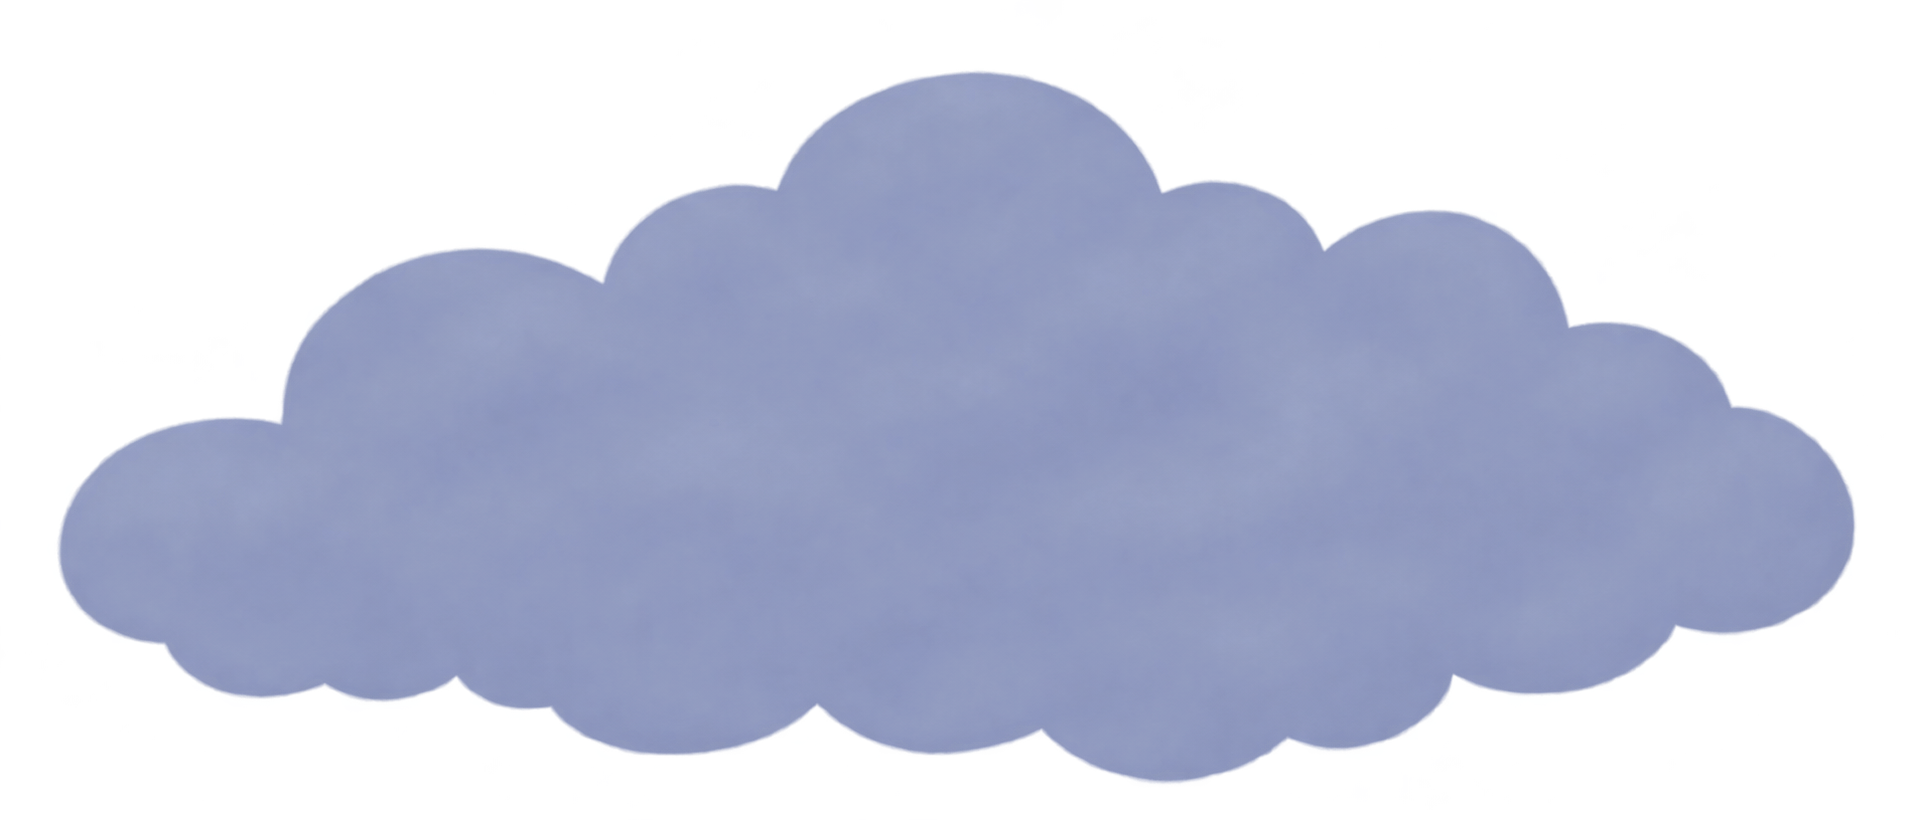
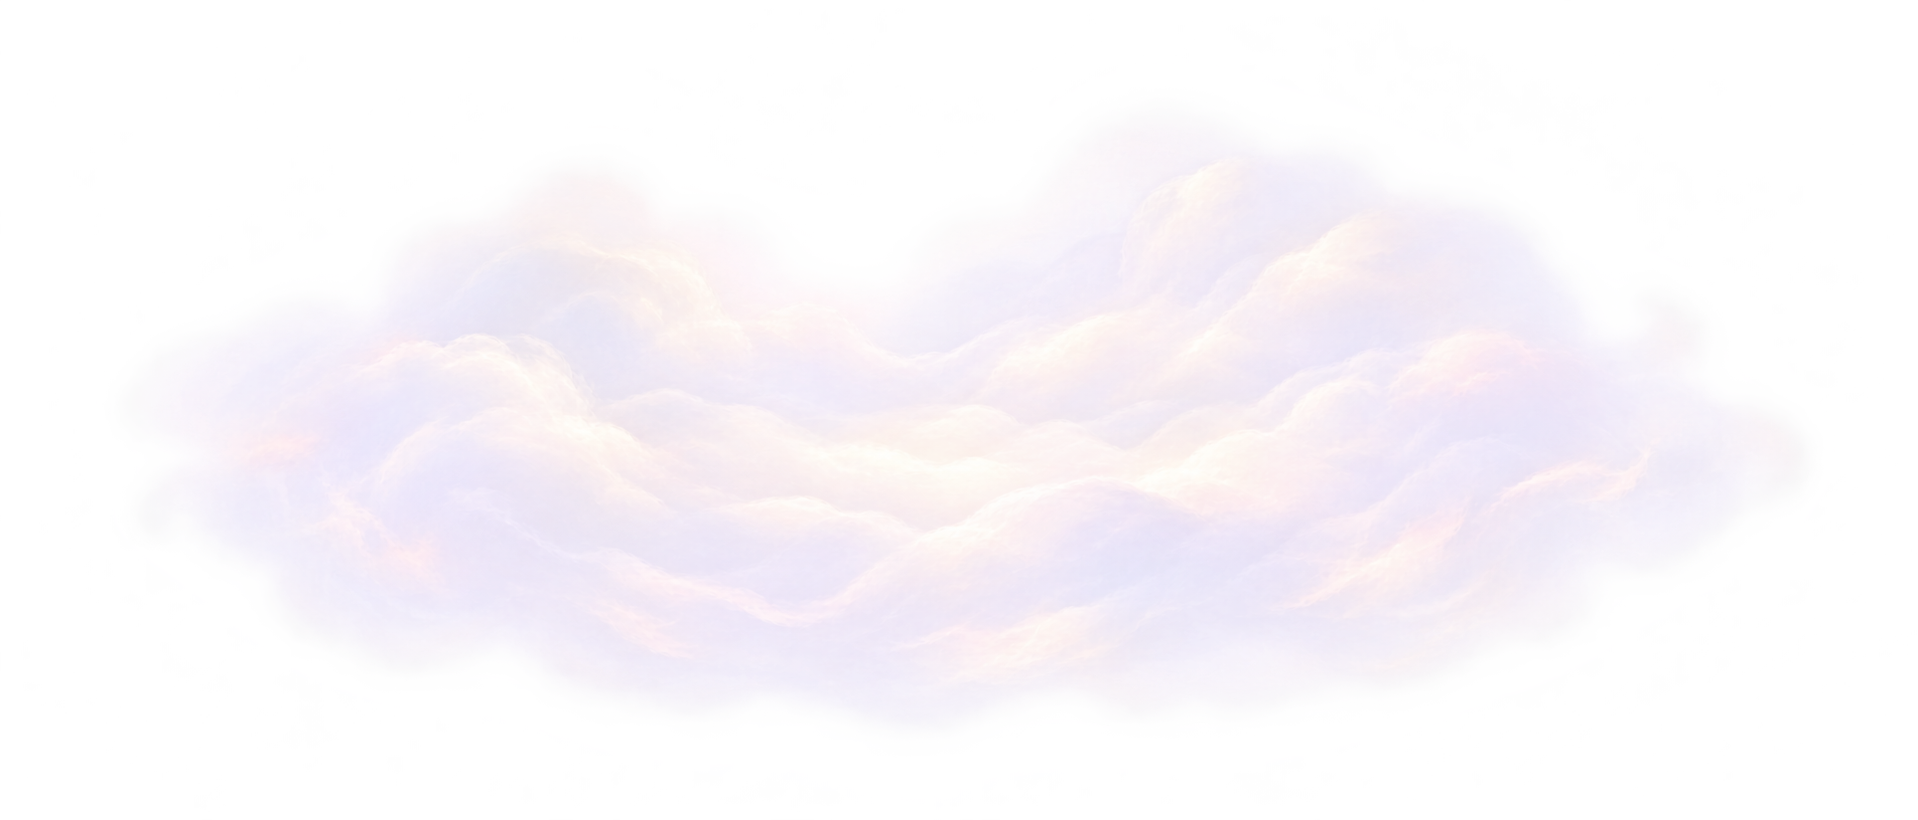
夢の部屋：霧藍換上半透明淡色雲床、小圖示改為夜潮中央的宇宙漩渦

diff --git a/dream-room/public/index.html b/dream-room/public/index.html
@@ -6,9 +6,9 @@
   <meta name="theme-color" content="#111e32" />
   <meta name="description" content="夢の部屋：不必交談，也可以安靜地待在一起。" />
   <title>夢の部屋</title>
-  <link rel="icon" href="./assets/icons/favicon.ico" sizes="any" />
-  <link rel="icon" type="image/png" sizes="32x32" href="./assets/icons/favicon-32.png" />
-  <link rel="apple-touch-icon" href="./assets/icons/apple-touch-icon.png" />
+  <link rel="icon" href="./assets/icons/favicon.ico?v=2" sizes="any" />
+  <link rel="icon" type="image/png" sizes="32x32" href="./assets/icons/favicon-32.png?v=2" />
+  <link rel="apple-touch-icon" href="./assets/icons/apple-touch-icon.png?v=2" />
   <meta name="apple-mobile-web-app-title" content="夢の部屋" />
   <meta property="og:type" content="website" />
   <meta property="og:site_name" content="夢の部屋" />
